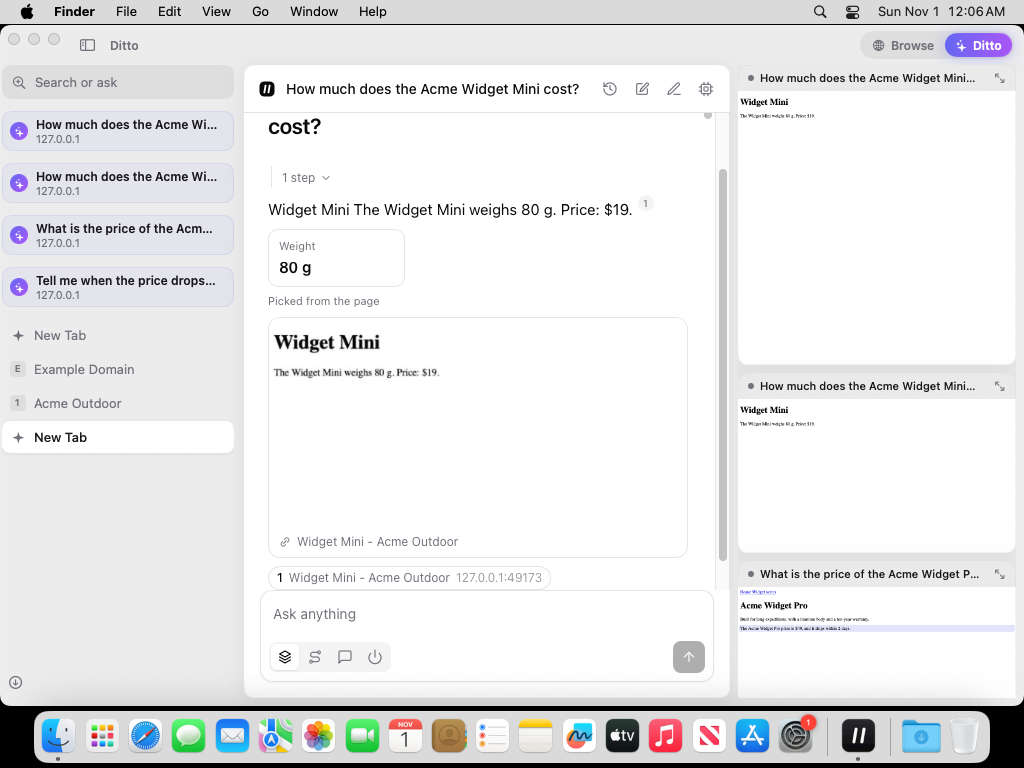
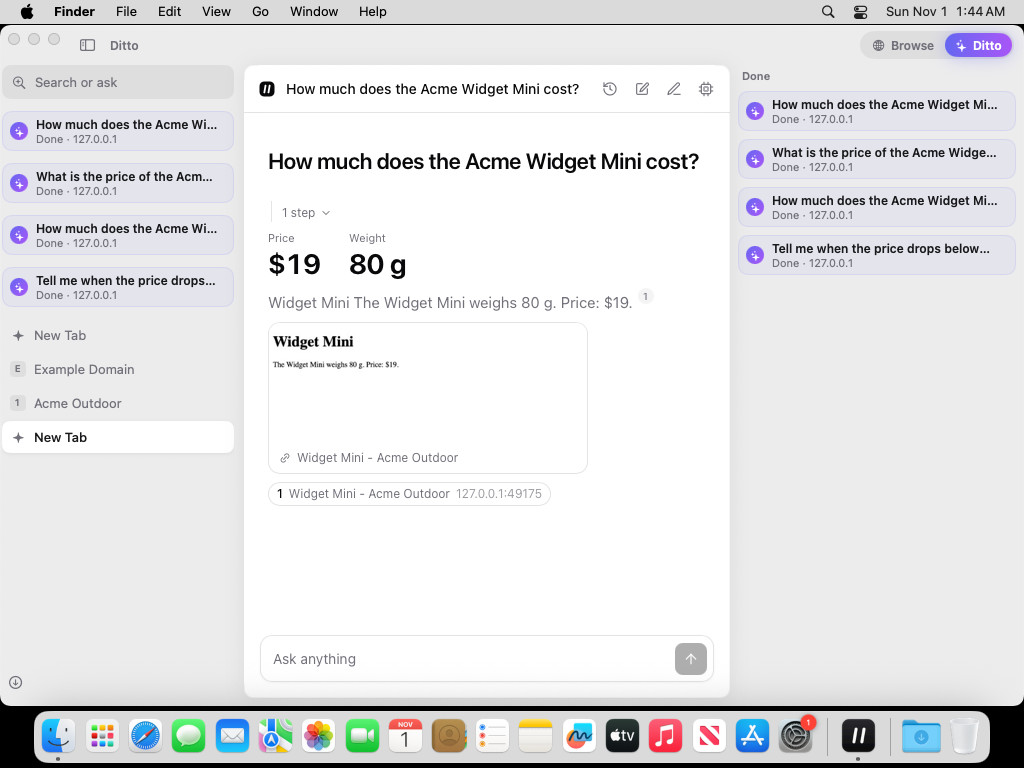
Ditto rows once in the Ditto layout; screenshots from v0.6.1
In the Ditto layout the canvas lists Ditto's tabs (working live, done as
rows); the sidebar no longer lists them a second time. README: v0.6.1
screenshots, and one of two chats at once with a queued question.

Claude-Session: https://claude.ai/code/session_01VapJydPrDu1F12ZRhmmqAj

diff --git a/app/Sources/Ditto/Views/Sidebar.swift b/app/Sources/Ditto/Views/Sidebar.swift
@@ -13,10 +13,13 @@ struct Sidebar: View {
       if !bookmarks.favorites.isEmpty {
         Favorites(items: bookmarks.favorites)
       }
-      // Ditto's tabs: one per chat working (or recently done).
-      ForEach(browser.agentTabList) { tab in
-        AgentTabRow(tab: tab)
-          .transition(.move(edge: .top).combined(with: .opacity))
+      // Ditto's tabs: one per chat working (or recently done). In the Ditto
+      // layout the canvas lists them; here they would say it twice.
+      if browser.layout == .browse {
+        ForEach(browser.agentTabList) { tab in
+          AgentTabRow(tab: tab)
+            .transition(.move(edge: .top).combined(with: .opacity))
+        }
       }
       ScrollView(showsIndicators: false) {
         VStack(spacing: 2) {

diff --git a/README.md b/README.md
@@ -25,9 +25,11 @@ v0.3.0 were Chromium-based previews.
 
 ## The browser
 
-![Browse: the page leads; Ditto works in its own tab, previewed live above the chat](docs/screenshots/agent.png)
+![Browse: the page leads, the chat beside it; the answer leads with the price, the sentence and where it was read below](docs/screenshots/agent.png)
 
 ![Ditto: a question asked from a new tab gets an answer page, with key facts and a picture of where it was read; Ditto's tabs live on the right](docs/screenshots/ditto.png)
+
+![Two chats working at once, each in its own Ditto tab (live on the right), and a question queued in the one on screen](docs/screenshots/queue.png)
 
 Ditto is a native Mac app (SwiftUI) on WebKit, Safari's engine: a small
 app, quick to start, light on memory and battery.
